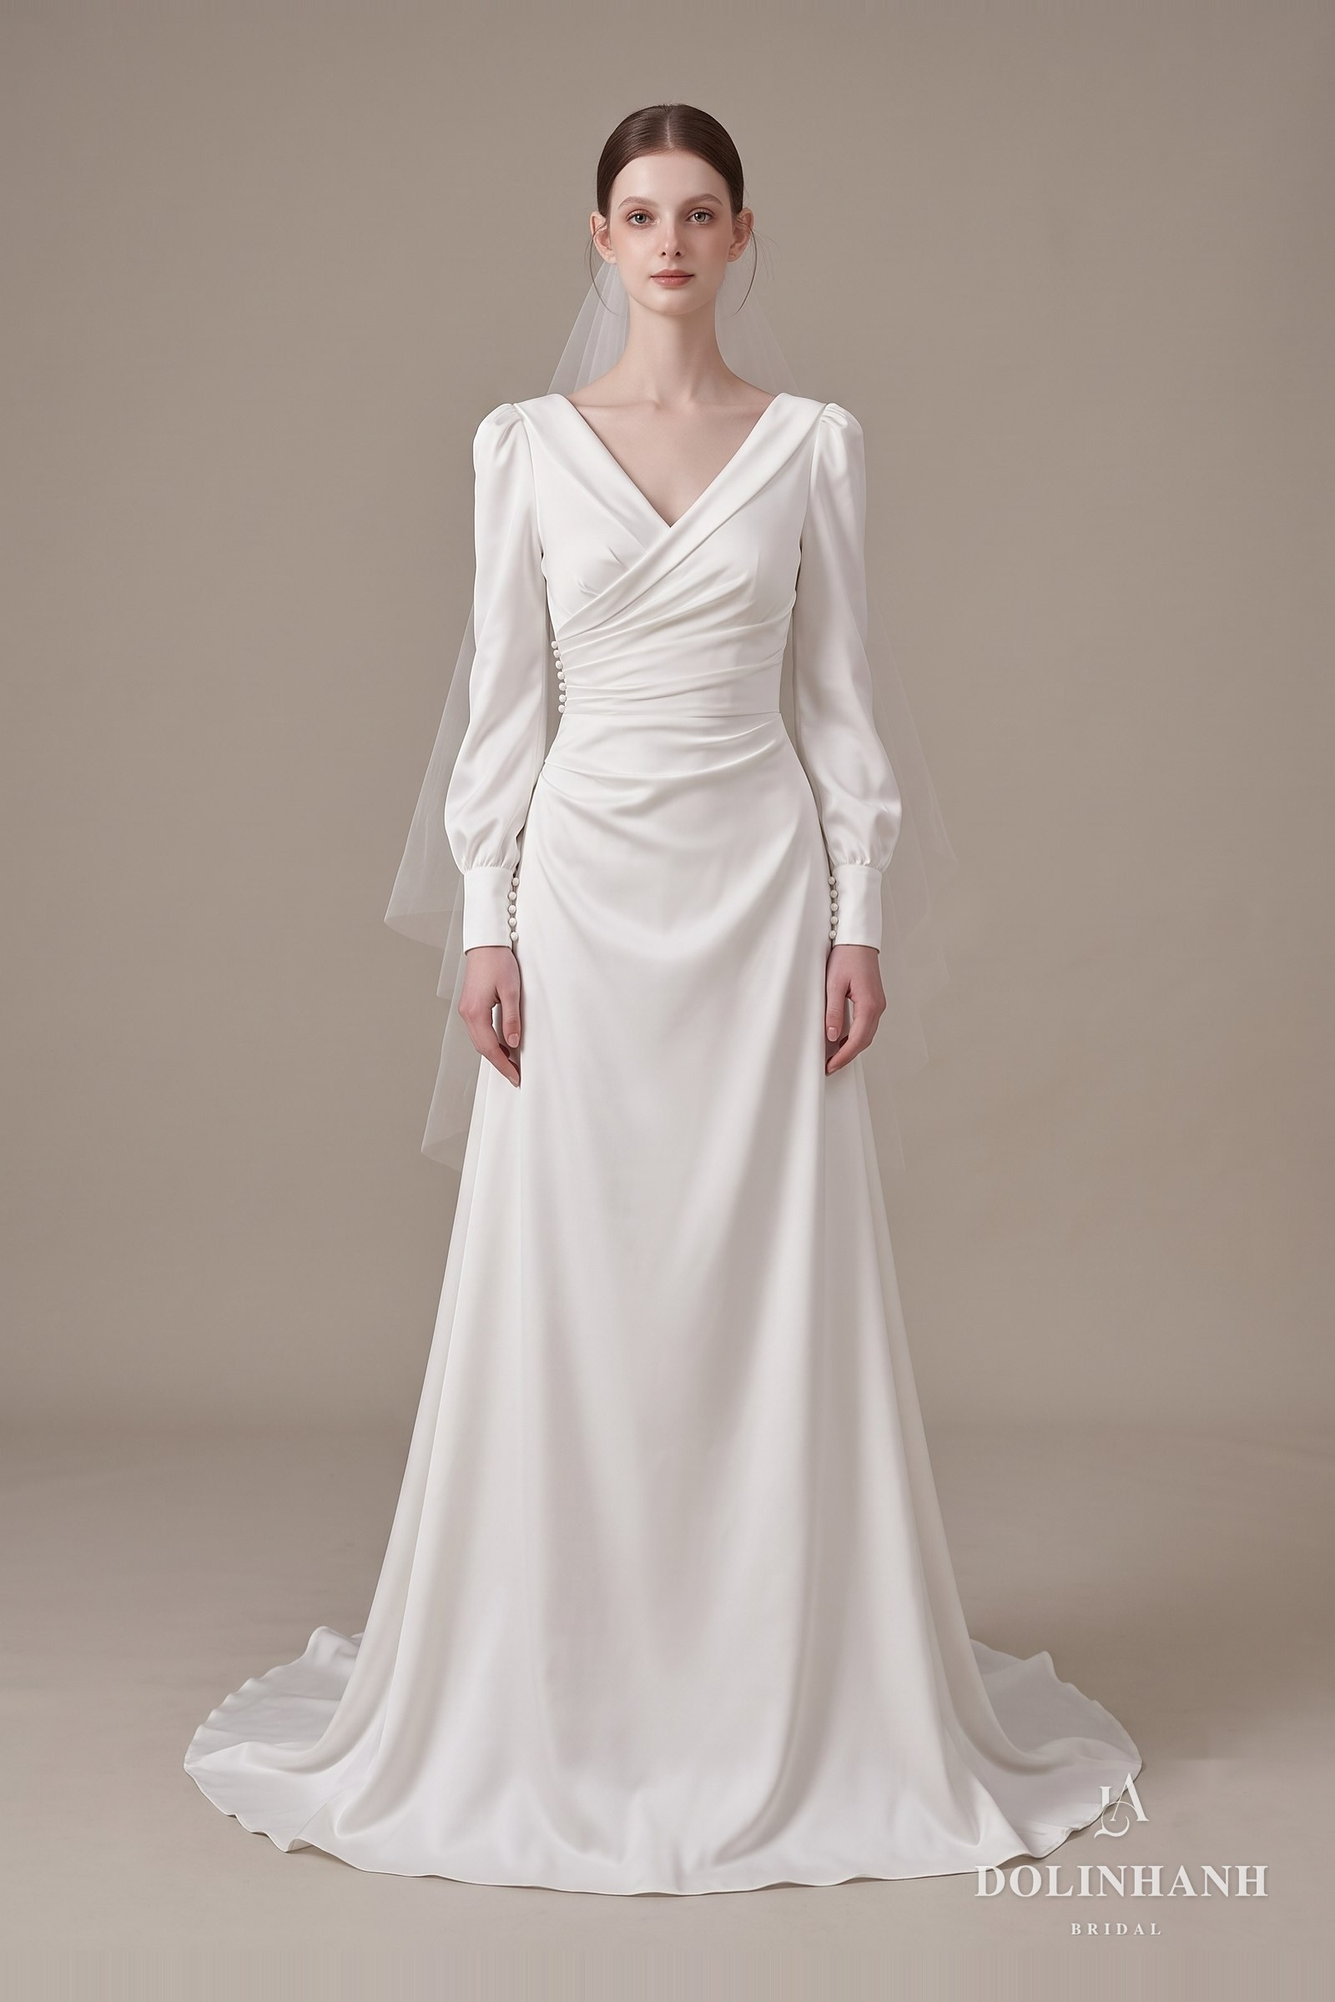
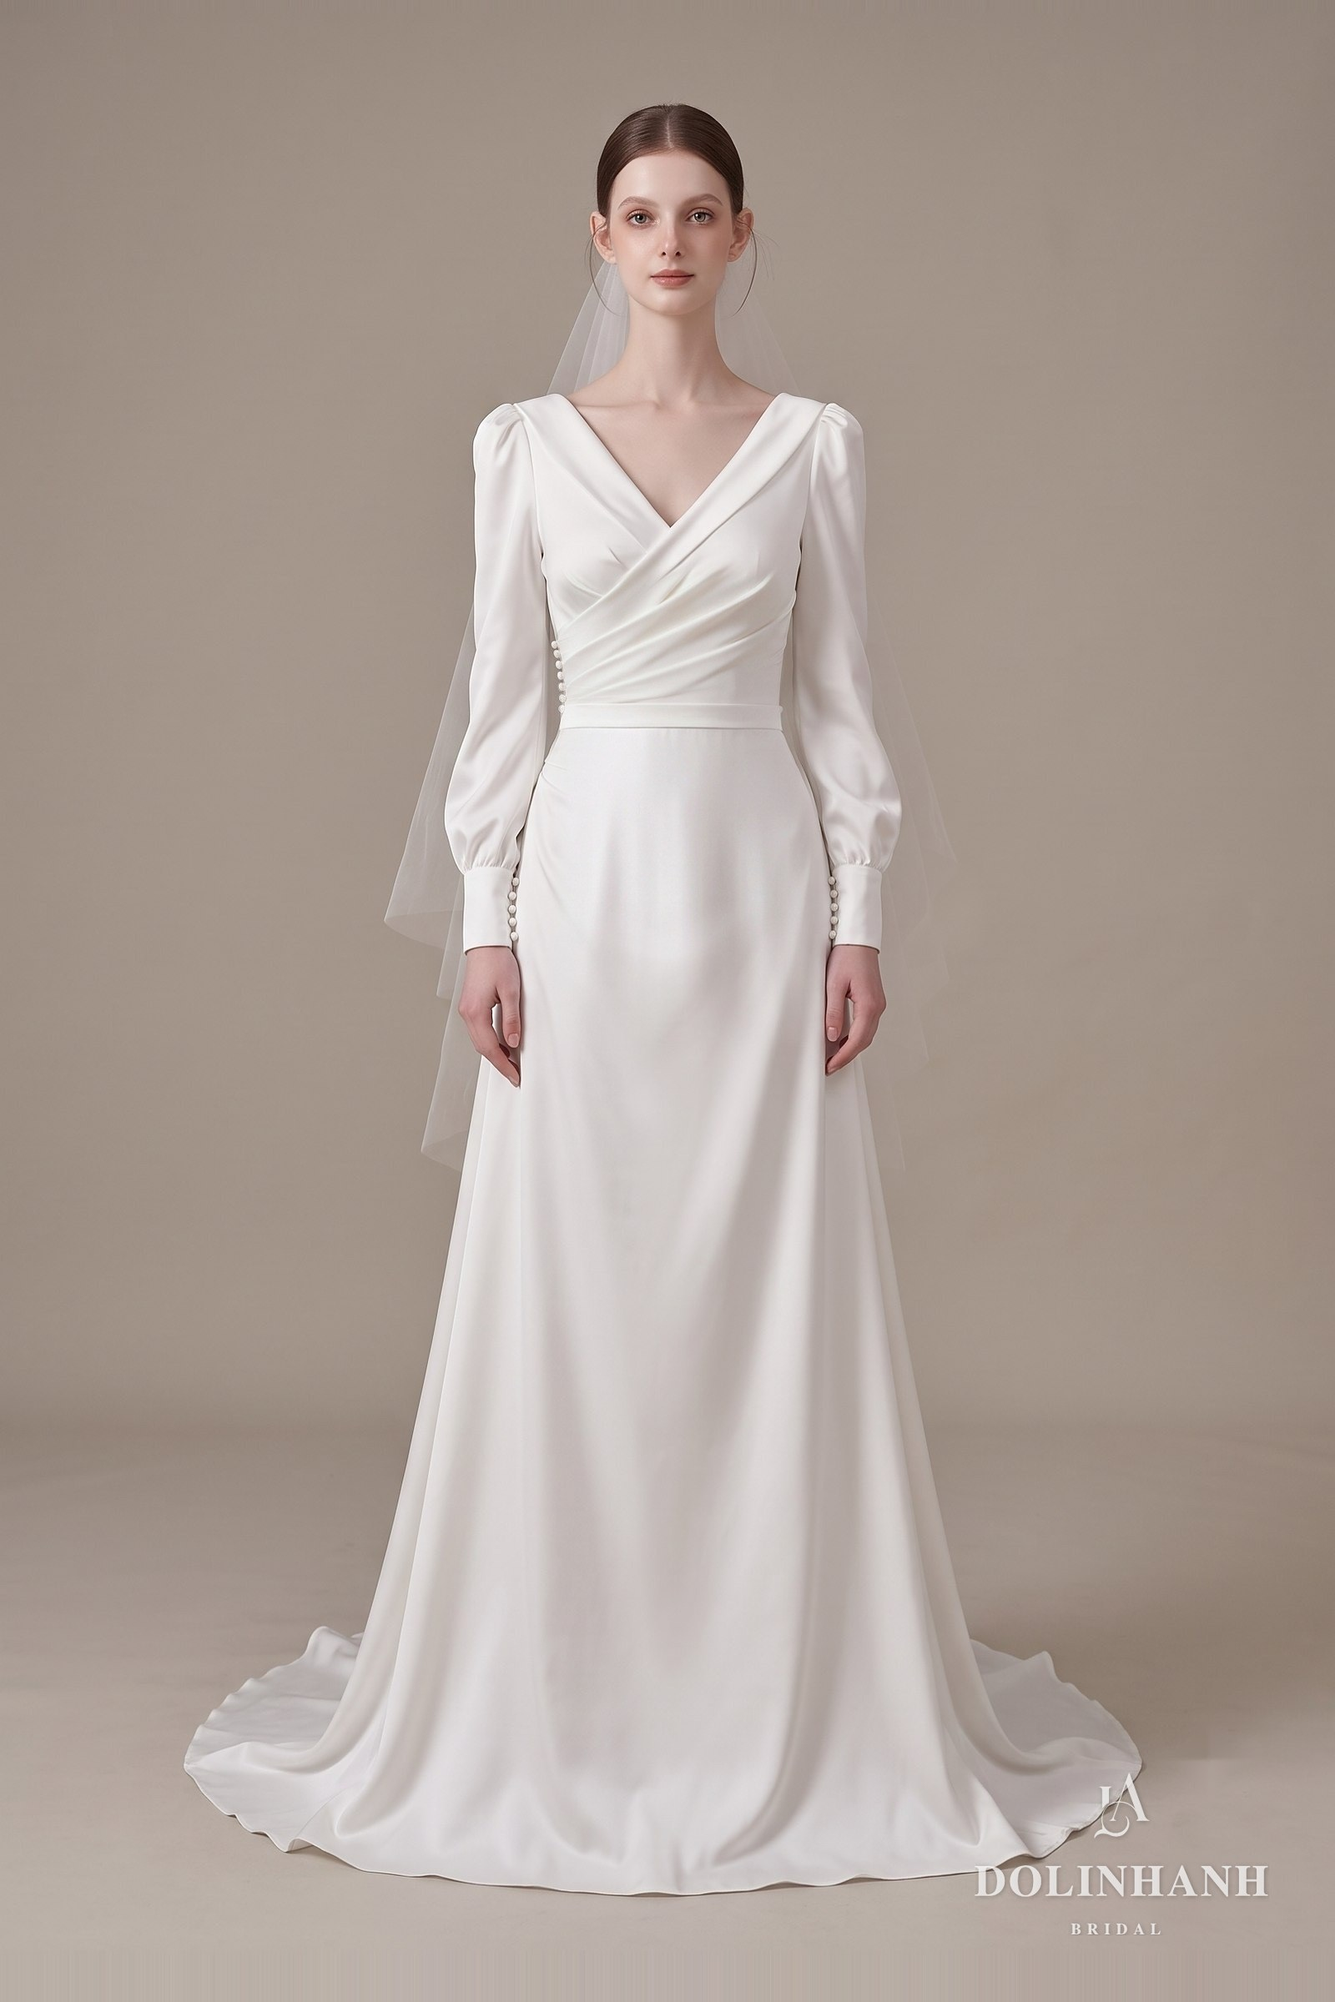
V219: MS 391: horizontal waist, 4 large bodice pleats

Changed region(s): [[0.4062, 0.2812, 0.5938, 0.4688]]

diff --git a/bo-suu-tap.html b/bo-suu-tap.html
@@ -3297,7 +3297,7 @@ src="https://www.facebook.com/tr?id=1358640082651240&ev=PageView&noscript=1"
         </figure>
         <figure data-kin="1" data-dang="a-line" data-mood="timeless" data-coso="hcm">
           <div class="sl-khung">
-            <div class="sl" data-img="anh/vay/ms391/01.jpg?v=1"></div>
+            <div class="sl" data-img="anh/vay/ms391/01.jpg?v=0511"></div>
           </div>
           <figcaption><span class="kind" data-en="Dolinhanh Bridal" data-zh="Dolinhanh Bridal">Dolinhanh Bridal</span><span class="nm">MS 391</span><span class="de" data-en="Long-sleeve wrap V-neck A-line" data-zh="长袖裹身V领A字型婚纱">Tay dài cổ V vắt chéo</span><span class="gia">US$1,080</span></figcaption>
         </figure>
@@ -4458,6 +4458,7 @@ src="https://www.facebook.com/tr?id=1358640082651240&ev=PageView&noscript=1"
           <a href="https://www.instagram.com/dolinhanh.bridal/" target="_blank" rel="noopener" aria-label="Instagram"><svg viewBox="0 0 24 24" width="22" height="22" fill="none" stroke="currentColor" stroke-width="1.6"><rect x="3" y="3" width="18" height="18" rx="5"/><circle cx="12" cy="12" r="4"/><circle cx="17.2" cy="6.8" r="1.1" fill="currentColor" stroke="none"/></svg></a>
           <a href="https://www.tiktok.com/@dolinhanhbridal2019" target="_blank" rel="noopener" aria-label="TikTok"><svg viewBox="0 0 24 24" width="22" height="22" fill="currentColor"><path d="M16.5 3c.3 2 1.5 3.4 3.5 3.6v2.6c-1.3.1-2.5-.2-3.6-.9v5.6c0 3.4-2.6 5.6-5.6 5.1-2.4-.4-4.2-2.4-4.3-4.8-.1-2.9 2.2-5.3 5.1-5.3.3 0 .5 0 .8.1v2.7c-.3-.1-.5-.1-.8-.1-1.4 0-2.5 1.2-2.4 2.6.1 1.2 1.1 2.2 2.3 2.3 1.4.1 2.6-1 2.6-2.4V3h2.4Z"/></svg></a>
           <a href="https://www.etsy.com/shop/VietnamWeddingGown" target="_blank" rel="noopener" aria-label="Etsy" title="Etsy"><svg viewBox="0 0 24 24" width="22" height="22" fill="currentColor"><path d="M8.559 2.445c0-.325.033-.52.59-.52h7.465c1.3 0 2.02 1.11 2.54 3.193l.42 1.666h1.27c.23-4.728.43-6.784.43-6.784s-3.196.36-5.09.36H6.635L1.521.196v1.37l1.725.326c1.21.24 1.5.496 1.6 1.606 0 0 .11 3.27.11 8.64 0 5.385-.09 8.61-.09 8.61 0 .973-.39 1.333-1.59 1.573l-1.722.33V24l5.13-.165h8.55c1.935 0 6.39.165 6.39.165.105-1.17.75-6.48.855-7.064h-1.2l-1.284 2.91c-1.005 2.28-2.476 2.445-4.11 2.445h-4.906c-1.63 0-2.415-.64-2.415-2.05V12.8s3.62 0 4.79.096c.912.064 1.463.325 1.76 1.598l.39 1.695h1.41l-.09-4.278.192-4.305h-1.391l-.45 1.89c-.283 1.244-.48 1.47-1.754 1.6-1.666.17-4.815.14-4.815.14V2.45h-.05z"/></svg></a>
+          <a href="https://www.youtube.com/@vietnamweddinggown" target="_blank" rel="noopener" aria-label="YouTube" title="YouTube"><svg viewBox="0 0 24 24" width="22" height="22" fill="currentColor"><path d="M23.5 6.2a3 3 0 0 0-2.1-2.1C19.5 3.6 12 3.6 12 3.6s-7.5 0-9.4.5A3 3 0 0 0 .5 6.2 31 31 0 0 0 0 12a31 31 0 0 0 .5 5.8 3 3 0 0 0 2.1 2.1c1.9.5 9.4.5 9.4.5s7.5 0 9.4-.5a3 3 0 0 0 2.1-2.1A31 31 0 0 0 24 12a31 31 0 0 0-.5-5.8zM9.6 15.6V8.4l6.2 3.6z"/></svg></a>
         </div>
       </div>
     </div>

diff --git a/cam-nang.html b/cam-nang.html
@@ -1060,6 +1060,7 @@ src="https://www.facebook.com/tr?id=1358640082651240&ev=PageView&noscript=1"
           <a href="https://www.instagram.com/dolinhanh.bridal/" target="_blank" rel="noopener" aria-label="Instagram"><svg viewBox="0 0 24 24" width="22" height="22" fill="none" stroke="currentColor" stroke-width="1.6"><rect x="3" y="3" width="18" height="18" rx="5"/><circle cx="12" cy="12" r="4"/><circle cx="17.2" cy="6.8" r="1.1" fill="currentColor" stroke="none"/></svg></a>
           <a href="https://www.tiktok.com/@dolinhanhbridal2019" target="_blank" rel="noopener" aria-label="TikTok"><svg viewBox="0 0 24 24" width="22" height="22" fill="currentColor"><path d="M16.5 3c.3 2 1.5 3.4 3.5 3.6v2.6c-1.3.1-2.5-.2-3.6-.9v5.6c0 3.4-2.6 5.6-5.6 5.1-2.4-.4-4.2-2.4-4.3-4.8-.1-2.9 2.2-5.3 5.1-5.3.3 0 .5 0 .8.1v2.7c-.3-.1-.5-.1-.8-.1-1.4 0-2.5 1.2-2.4 2.6.1 1.2 1.1 2.2 2.3 2.3 1.4.1 2.6-1 2.6-2.4V3h2.4Z"/></svg></a>
           <a href="https://www.etsy.com/shop/VietnamWeddingGown" target="_blank" rel="noopener" aria-label="Etsy" title="Etsy"><svg viewBox="0 0 24 24" width="22" height="22" fill="currentColor"><path d="M8.559 2.445c0-.325.033-.52.59-.52h7.465c1.3 0 2.02 1.11 2.54 3.193l.42 1.666h1.27c.23-4.728.43-6.784.43-6.784s-3.196.36-5.09.36H6.635L1.521.196v1.37l1.725.326c1.21.24 1.5.496 1.6 1.606 0 0 .11 3.27.11 8.64 0 5.385-.09 8.61-.09 8.61 0 .973-.39 1.333-1.59 1.573l-1.722.33V24l5.13-.165h8.55c1.935 0 6.39.165 6.39.165.105-1.17.75-6.48.855-7.064h-1.2l-1.284 2.91c-1.005 2.28-2.476 2.445-4.11 2.445h-4.906c-1.63 0-2.415-.64-2.415-2.05V12.8s3.62 0 4.79.096c.912.064 1.463.325 1.76 1.598l.39 1.695h1.41l-.09-4.278.192-4.305h-1.391l-.45 1.89c-.283 1.244-.48 1.47-1.754 1.6-1.666.17-4.815.14-4.815.14V2.45h-.05z"/></svg></a>
+          <a href="https://www.youtube.com/@vietnamweddinggown" target="_blank" rel="noopener" aria-label="YouTube" title="YouTube"><svg viewBox="0 0 24 24" width="22" height="22" fill="currentColor"><path d="M23.5 6.2a3 3 0 0 0-2.1-2.1C19.5 3.6 12 3.6 12 3.6s-7.5 0-9.4.5A3 3 0 0 0 .5 6.2 31 31 0 0 0 0 12a31 31 0 0 0 .5 5.8 3 3 0 0 0 2.1 2.1c1.9.5 9.4.5 9.4.5s7.5 0 9.4-.5a3 3 0 0 0 2.1-2.1A31 31 0 0 0 24 12a31 31 0 0 0-.5-5.8zM9.6 15.6V8.4l6.2 3.6z"/></svg></a>
         </div>
       </div>
     </div>

diff --git a/co-dau.html b/co-dau.html
@@ -1286,6 +1286,7 @@ src="https://www.facebook.com/tr?id=1358640082651240&ev=PageView&noscript=1"
           <a href="https://www.instagram.com/dolinhanh.bridal/" target="_blank" rel="noopener" aria-label="Instagram"><svg viewBox="0 0 24 24" width="22" height="22" fill="none" stroke="currentColor" stroke-width="1.6"><rect x="3" y="3" width="18" height="18" rx="5"/><circle cx="12" cy="12" r="4"/><circle cx="17.2" cy="6.8" r="1.1" fill="currentColor" stroke="none"/></svg></a>
           <a href="https://www.tiktok.com/@dolinhanhbridal2019" target="_blank" rel="noopener" aria-label="TikTok"><svg viewBox="0 0 24 24" width="22" height="22" fill="currentColor"><path d="M16.5 3c.3 2 1.5 3.4 3.5 3.6v2.6c-1.3.1-2.5-.2-3.6-.9v5.6c0 3.4-2.6 5.6-5.6 5.1-2.4-.4-4.2-2.4-4.3-4.8-.1-2.9 2.2-5.3 5.1-5.3.3 0 .5 0 .8.1v2.7c-.3-.1-.5-.1-.8-.1-1.4 0-2.5 1.2-2.4 2.6.1 1.2 1.1 2.2 2.3 2.3 1.4.1 2.6-1 2.6-2.4V3h2.4Z"/></svg></a>
           <a href="https://www.etsy.com/shop/VietnamWeddingGown" target="_blank" rel="noopener" aria-label="Etsy" title="Etsy"><svg viewBox="0 0 24 24" width="22" height="22" fill="currentColor"><path d="M8.559 2.445c0-.325.033-.52.59-.52h7.465c1.3 0 2.02 1.11 2.54 3.193l.42 1.666h1.27c.23-4.728.43-6.784.43-6.784s-3.196.36-5.09.36H6.635L1.521.196v1.37l1.725.326c1.21.24 1.5.496 1.6 1.606 0 0 .11 3.27.11 8.64 0 5.385-.09 8.61-.09 8.61 0 .973-.39 1.333-1.59 1.573l-1.722.33V24l5.13-.165h8.55c1.935 0 6.39.165 6.39.165.105-1.17.75-6.48.855-7.064h-1.2l-1.284 2.91c-1.005 2.28-2.476 2.445-4.11 2.445h-4.906c-1.63 0-2.415-.64-2.415-2.05V12.8s3.62 0 4.79.096c.912.064 1.463.325 1.76 1.598l.39 1.695h1.41l-.09-4.278.192-4.305h-1.391l-.45 1.89c-.283 1.244-.48 1.47-1.754 1.6-1.666.17-4.815.14-4.815.14V2.45h-.05z"/></svg></a>
+          <a href="https://www.youtube.com/@vietnamweddinggown" target="_blank" rel="noopener" aria-label="YouTube" title="YouTube"><svg viewBox="0 0 24 24" width="22" height="22" fill="currentColor"><path d="M23.5 6.2a3 3 0 0 0-2.1-2.1C19.5 3.6 12 3.6 12 3.6s-7.5 0-9.4.5A3 3 0 0 0 .5 6.2 31 31 0 0 0 0 12a31 31 0 0 0 .5 5.8 3 3 0 0 0 2.1 2.1c1.9.5 9.4.5 9.4.5s7.5 0 9.4-.5a3 3 0 0 0 2.1-2.1A31 31 0 0 0 24 12a31 31 0 0 0-.5-5.8zM9.6 15.6V8.4l6.2 3.6z"/></svg></a>
         </div>
       </div>
     </div>

diff --git a/index.html b/index.html
@@ -1026,6 +1026,7 @@ src="https://www.facebook.com/tr?id=1358640082651240&ev=PageView&noscript=1"
           <a href="https://www.instagram.com/dolinhanh.bridal/" target="_blank" rel="noopener" aria-label="Instagram"><svg viewBox="0 0 24 24" width="22" height="22" fill="none" stroke="currentColor" stroke-width="1.6"><rect x="3" y="3" width="18" height="18" rx="5"/><circle cx="12" cy="12" r="4"/><circle cx="17.2" cy="6.8" r="1.1" fill="currentColor" stroke="none"/></svg></a>
           <a href="https://www.tiktok.com/@dolinhanhbridal2019" target="_blank" rel="noopener" aria-label="TikTok"><svg viewBox="0 0 24 24" width="22" height="22" fill="currentColor"><path d="M16.5 3c.3 2 1.5 3.4 3.5 3.6v2.6c-1.3.1-2.5-.2-3.6-.9v5.6c0 3.4-2.6 5.6-5.6 5.1-2.4-.4-4.2-2.4-4.3-4.8-.1-2.9 2.2-5.3 5.1-5.3.3 0 .5 0 .8.1v2.7c-.3-.1-.5-.1-.8-.1-1.4 0-2.5 1.2-2.4 2.6.1 1.2 1.1 2.2 2.3 2.3 1.4.1 2.6-1 2.6-2.4V3h2.4Z"/></svg></a>
           <a href="https://www.etsy.com/shop/VietnamWeddingGown" target="_blank" rel="noopener" aria-label="Etsy" title="Etsy"><svg viewBox="0 0 24 24" width="22" height="22" fill="currentColor"><path d="M8.559 2.445c0-.325.033-.52.59-.52h7.465c1.3 0 2.02 1.11 2.54 3.193l.42 1.666h1.27c.23-4.728.43-6.784.43-6.784s-3.196.36-5.09.36H6.635L1.521.196v1.37l1.725.326c1.21.24 1.5.496 1.6 1.606 0 0 .11 3.27.11 8.64 0 5.385-.09 8.61-.09 8.61 0 .973-.39 1.333-1.59 1.573l-1.722.33V24l5.13-.165h8.55c1.935 0 6.39.165 6.39.165.105-1.17.75-6.48.855-7.064h-1.2l-1.284 2.91c-1.005 2.28-2.476 2.445-4.11 2.445h-4.906c-1.63 0-2.415-.64-2.415-2.05V12.8s3.62 0 4.79.096c.912.064 1.463.325 1.76 1.598l.39 1.695h1.41l-.09-4.278.192-4.305h-1.391l-.45 1.89c-.283 1.244-.48 1.47-1.754 1.6-1.666.17-4.815.14-4.815.14V2.45h-.05z"/></svg></a>
+          <a href="https://www.youtube.com/@vietnamweddinggown" target="_blank" rel="noopener" aria-label="YouTube" title="YouTube"><svg viewBox="0 0 24 24" width="22" height="22" fill="currentColor"><path d="M23.5 6.2a3 3 0 0 0-2.1-2.1C19.5 3.6 12 3.6 12 3.6s-7.5 0-9.4.5A3 3 0 0 0 .5 6.2 31 31 0 0 0 0 12a31 31 0 0 0 .5 5.8 3 3 0 0 0 2.1 2.1c1.9.5 9.4.5 9.4.5s7.5 0 9.4-.5a3 3 0 0 0 2.1-2.1A31 31 0 0 0 24 12a31 31 0 0 0-.5-5.8zM9.6 15.6V8.4l6.2 3.6z"/></svg></a>
         </div>
       </div>
     </div>

diff --git a/gioi-thieu.html b/gioi-thieu.html
@@ -768,6 +768,7 @@ src="https://www.facebook.com/tr?id=1358640082651240&ev=PageView&noscript=1"
           <a href="https://www.instagram.com/dolinhanh.bridal/" target="_blank" rel="noopener" aria-label="Instagram"><svg viewBox="0 0 24 24" width="22" height="22" fill="none" stroke="currentColor" stroke-width="1.6"><rect x="3" y="3" width="18" height="18" rx="5"/><circle cx="12" cy="12" r="4"/><circle cx="17.2" cy="6.8" r="1.1" fill="currentColor" stroke="none"/></svg></a>
           <a href="https://www.tiktok.com/@dolinhanhbridal2019" target="_blank" rel="noopener" aria-label="TikTok"><svg viewBox="0 0 24 24" width="22" height="22" fill="currentColor"><path d="M16.5 3c.3 2 1.5 3.4 3.5 3.6v2.6c-1.3.1-2.5-.2-3.6-.9v5.6c0 3.4-2.6 5.6-5.6 5.1-2.4-.4-4.2-2.4-4.3-4.8-.1-2.9 2.2-5.3 5.1-5.3.3 0 .5 0 .8.1v2.7c-.3-.1-.5-.1-.8-.1-1.4 0-2.5 1.2-2.4 2.6.1 1.2 1.1 2.2 2.3 2.3 1.4.1 2.6-1 2.6-2.4V3h2.4Z"/></svg></a>
           <a href="https://www.etsy.com/shop/VietnamWeddingGown" target="_blank" rel="noopener" aria-label="Etsy" title="Etsy"><svg viewBox="0 0 24 24" width="22" height="22" fill="currentColor"><path d="M8.559 2.445c0-.325.033-.52.59-.52h7.465c1.3 0 2.02 1.11 2.54 3.193l.42 1.666h1.27c.23-4.728.43-6.784.43-6.784s-3.196.36-5.09.36H6.635L1.521.196v1.37l1.725.326c1.21.24 1.5.496 1.6 1.606 0 0 .11 3.27.11 8.64 0 5.385-.09 8.61-.09 8.61 0 .973-.39 1.333-1.59 1.573l-1.722.33V24l5.13-.165h8.55c1.935 0 6.39.165 6.39.165.105-1.17.75-6.48.855-7.064h-1.2l-1.284 2.91c-1.005 2.28-2.476 2.445-4.11 2.445h-4.906c-1.63 0-2.415-.64-2.415-2.05V12.8s3.62 0 4.79.096c.912.064 1.463.325 1.76 1.598l.39 1.695h1.41l-.09-4.278.192-4.305h-1.391l-.45 1.89c-.283 1.244-.48 1.47-1.754 1.6-1.666.17-4.815.14-4.815.14V2.45h-.05z"/></svg></a>
+          <a href="https://www.youtube.com/@vietnamweddinggown" target="_blank" rel="noopener" aria-label="YouTube" title="YouTube"><svg viewBox="0 0 24 24" width="22" height="22" fill="currentColor"><path d="M23.5 6.2a3 3 0 0 0-2.1-2.1C19.5 3.6 12 3.6 12 3.6s-7.5 0-9.4.5A3 3 0 0 0 .5 6.2 31 31 0 0 0 0 12a31 31 0 0 0 .5 5.8 3 3 0 0 0 2.1 2.1c1.9.5 9.4.5 9.4.5s7.5 0 9.4-.5a3 3 0 0 0 2.1-2.1A31 31 0 0 0 24 12a31 31 0 0 0-.5-5.8zM9.6 15.6V8.4l6.2 3.6z"/></svg></a>
         </div>
       </div>
     </div>

diff --git a/gui-yeu-cau.html b/gui-yeu-cau.html
@@ -744,6 +744,7 @@ src="https://www.facebook.com/tr?id=1358640082651240&ev=PageView&noscript=1"
           <a href="https://www.instagram.com/dolinhanh.bridal/" target="_blank" rel="noopener" aria-label="Instagram"><svg viewBox="0 0 24 24" width="22" height="22" fill="none" stroke="currentColor" stroke-width="1.6"><rect x="3" y="3" width="18" height="18" rx="5"/><circle cx="12" cy="12" r="4"/><circle cx="17.2" cy="6.8" r="1.1" fill="currentColor" stroke="none"/></svg></a>
           <a href="https://www.tiktok.com/@dolinhanhbridal2019" target="_blank" rel="noopener" aria-label="TikTok"><svg viewBox="0 0 24 24" width="22" height="22" fill="currentColor"><path d="M16.5 3c.3 2 1.5 3.4 3.5 3.6v2.6c-1.3.1-2.5-.2-3.6-.9v5.6c0 3.4-2.6 5.6-5.6 5.1-2.4-.4-4.2-2.4-4.3-4.8-.1-2.9 2.2-5.3 5.1-5.3.3 0 .5 0 .8.1v2.7c-.3-.1-.5-.1-.8-.1-1.4 0-2.5 1.2-2.4 2.6.1 1.2 1.1 2.2 2.3 2.3 1.4.1 2.6-1 2.6-2.4V3h2.4Z"/></svg></a>
           <a href="https://www.etsy.com/shop/VietnamWeddingGown" target="_blank" rel="noopener" aria-label="Etsy" title="Etsy"><svg viewBox="0 0 24 24" width="22" height="22" fill="currentColor"><path d="M8.559 2.445c0-.325.033-.52.59-.52h7.465c1.3 0 2.02 1.11 2.54 3.193l.42 1.666h1.27c.23-4.728.43-6.784.43-6.784s-3.196.36-5.09.36H6.635L1.521.196v1.37l1.725.326c1.21.24 1.5.496 1.6 1.606 0 0 .11 3.27.11 8.64 0 5.385-.09 8.61-.09 8.61 0 .973-.39 1.333-1.59 1.573l-1.722.33V24l5.13-.165h8.55c1.935 0 6.39.165 6.39.165.105-1.17.75-6.48.855-7.064h-1.2l-1.284 2.91c-1.005 2.28-2.476 2.445-4.11 2.445h-4.906c-1.63 0-2.415-.64-2.415-2.05V12.8s3.62 0 4.79.096c.912.064 1.463.325 1.76 1.598l.39 1.695h1.41l-.09-4.278.192-4.305h-1.391l-.45 1.89c-.283 1.244-.48 1.47-1.754 1.6-1.666.17-4.815.14-4.815.14V2.45h-.05z"/></svg></a>
+          <a href="https://www.youtube.com/@vietnamweddinggown" target="_blank" rel="noopener" aria-label="YouTube" title="YouTube"><svg viewBox="0 0 24 24" width="22" height="22" fill="currentColor"><path d="M23.5 6.2a3 3 0 0 0-2.1-2.1C19.5 3.6 12 3.6 12 3.6s-7.5 0-9.4.5A3 3 0 0 0 .5 6.2 31 31 0 0 0 0 12a31 31 0 0 0 .5 5.8 3 3 0 0 0 2.1 2.1c1.9.5 9.4.5 9.4.5s7.5 0 9.4-.5a3 3 0 0 0 2.1-2.1A31 31 0 0 0 24 12a31 31 0 0 0-.5-5.8zM9.6 15.6V8.4l6.2 3.6z"/></svg></a>
         </div>
       </div>
     </div>

diff --git a/hanh-trinh.html b/hanh-trinh.html
@@ -781,6 +781,7 @@ src="https://www.facebook.com/tr?id=1358640082651240&ev=PageView&noscript=1"
           <a href="https://www.instagram.com/dolinhanh.bridal/" target="_blank" rel="noopener" aria-label="Instagram"><svg viewBox="0 0 24 24" width="22" height="22" fill="none" stroke="currentColor" stroke-width="1.6"><rect x="3" y="3" width="18" height="18" rx="5"/><circle cx="12" cy="12" r="4"/><circle cx="17.2" cy="6.8" r="1.1" fill="currentColor" stroke="none"/></svg></a>
           <a href="https://www.tiktok.com/@dolinhanhbridal2019" target="_blank" rel="noopener" aria-label="TikTok"><svg viewBox="0 0 24 24" width="22" height="22" fill="currentColor"><path d="M16.5 3c.3 2 1.5 3.4 3.5 3.6v2.6c-1.3.1-2.5-.2-3.6-.9v5.6c0 3.4-2.6 5.6-5.6 5.1-2.4-.4-4.2-2.4-4.3-4.8-.1-2.9 2.2-5.3 5.1-5.3.3 0 .5 0 .8.1v2.7c-.3-.1-.5-.1-.8-.1-1.4 0-2.5 1.2-2.4 2.6.1 1.2 1.1 2.2 2.3 2.3 1.4.1 2.6-1 2.6-2.4V3h2.4Z"/></svg></a>
           <a href="https://www.etsy.com/shop/VietnamWeddingGown" target="_blank" rel="noopener" aria-label="Etsy" title="Etsy"><svg viewBox="0 0 24 24" width="22" height="22" fill="currentColor"><path d="M8.559 2.445c0-.325.033-.52.59-.52h7.465c1.3 0 2.02 1.11 2.54 3.193l.42 1.666h1.27c.23-4.728.43-6.784.43-6.784s-3.196.36-5.09.36H6.635L1.521.196v1.37l1.725.326c1.21.24 1.5.496 1.6 1.606 0 0 .11 3.27.11 8.64 0 5.385-.09 8.61-.09 8.61 0 .973-.39 1.333-1.59 1.573l-1.722.33V24l5.13-.165h8.55c1.935 0 6.39.165 6.39.165.105-1.17.75-6.48.855-7.064h-1.2l-1.284 2.91c-1.005 2.28-2.476 2.445-4.11 2.445h-4.906c-1.63 0-2.415-.64-2.415-2.05V12.8s3.62 0 4.79.096c.912.064 1.463.325 1.76 1.598l.39 1.695h1.41l-.09-4.278.192-4.305h-1.391l-.45 1.89c-.283 1.244-.48 1.47-1.754 1.6-1.666.17-4.815.14-4.815.14V2.45h-.05z"/></svg></a>
+          <a href="https://www.youtube.com/@vietnamweddinggown" target="_blank" rel="noopener" aria-label="YouTube" title="YouTube"><svg viewBox="0 0 24 24" width="22" height="22" fill="currentColor"><path d="M23.5 6.2a3 3 0 0 0-2.1-2.1C19.5 3.6 12 3.6 12 3.6s-7.5 0-9.4.5A3 3 0 0 0 .5 6.2 31 31 0 0 0 0 12a31 31 0 0 0 .5 5.8 3 3 0 0 0 2.1 2.1c1.9.5 9.4.5 9.4.5s7.5 0 9.4-.5a3 3 0 0 0 2.1-2.1A31 31 0 0 0 24 12a31 31 0 0 0-.5-5.8zM9.6 15.6V8.4l6.2 3.6z"/></svg></a>
         </div>
       </div>
     </div>

diff --git a/made-to-measure.html b/made-to-measure.html
@@ -722,6 +722,7 @@ src="https://www.facebook.com/tr?id=1358640082651240&ev=PageView&noscript=1"
       <a href="https://www.instagram.com/dolinhanh.bridal/" target="_blank" rel="noopener">Instagram</a>
       <a href="https://www.etsy.com/shop/VietnamWeddingGown" target="_blank" rel="noopener">Shop on Etsy</a>
       <a href="https://vietnamweddingveil.com/" target="_blank" rel="noopener">Wedding veils</a>
+      <a href="https://www.youtube.com/@vietnamweddinggown" target="_blank" rel="noopener">YouTube</a>
       <a href="https://nupakachi.com" target="_blank" rel="noopener">Nupakachi Photography</a>
     </div>
     <p class="foot-say">Made for your day. Designed to last.</p>

diff --git a/wedding-dress-vietnam.html b/wedding-dress-vietnam.html
@@ -582,6 +582,7 @@ src="https://www.facebook.com/tr?id=1358640082651240&ev=PageView&noscript=1"
       <a href="co-dau.html?lang=en">Our brides</a>
       <a href="https://www.etsy.com/shop/VietnamWeddingGown" target="_blank" rel="noopener">Shop on Etsy</a>
       <a href="https://vietnamweddingveil.com/" target="_blank" rel="noopener">Wedding veils</a>
+      <a href="https://www.youtube.com/@vietnamweddinggown" target="_blank" rel="noopener">YouTube</a>
       <a href="https://nupakachi.com" target="_blank" rel="noopener">Nupakachi Photography</a>
       <a href="index.html?lang=vi" hreflang="vi" lang="vi">Tiếng Việt</a>
     </div>
